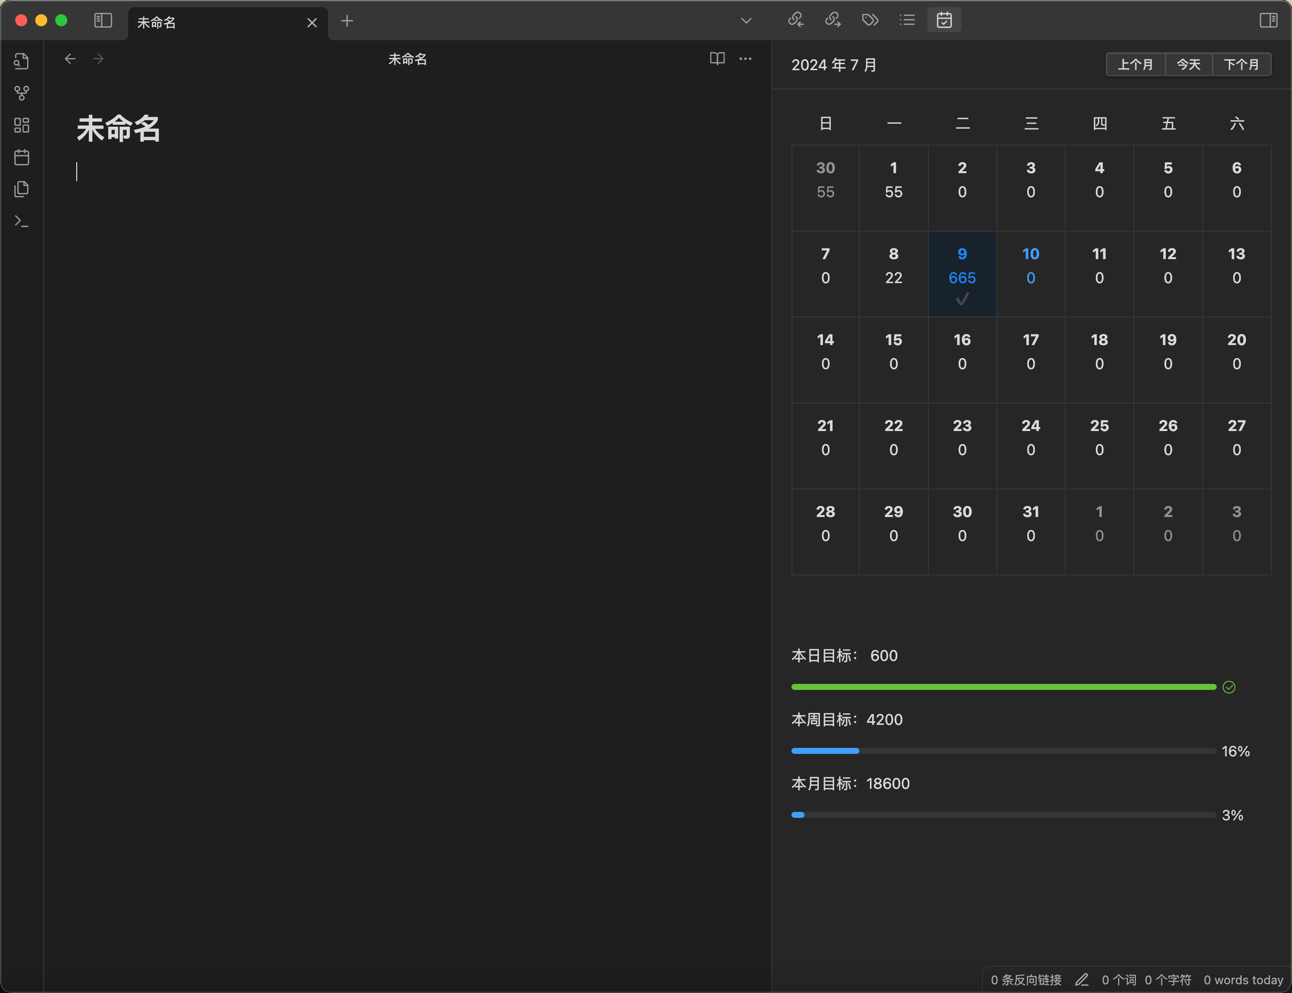
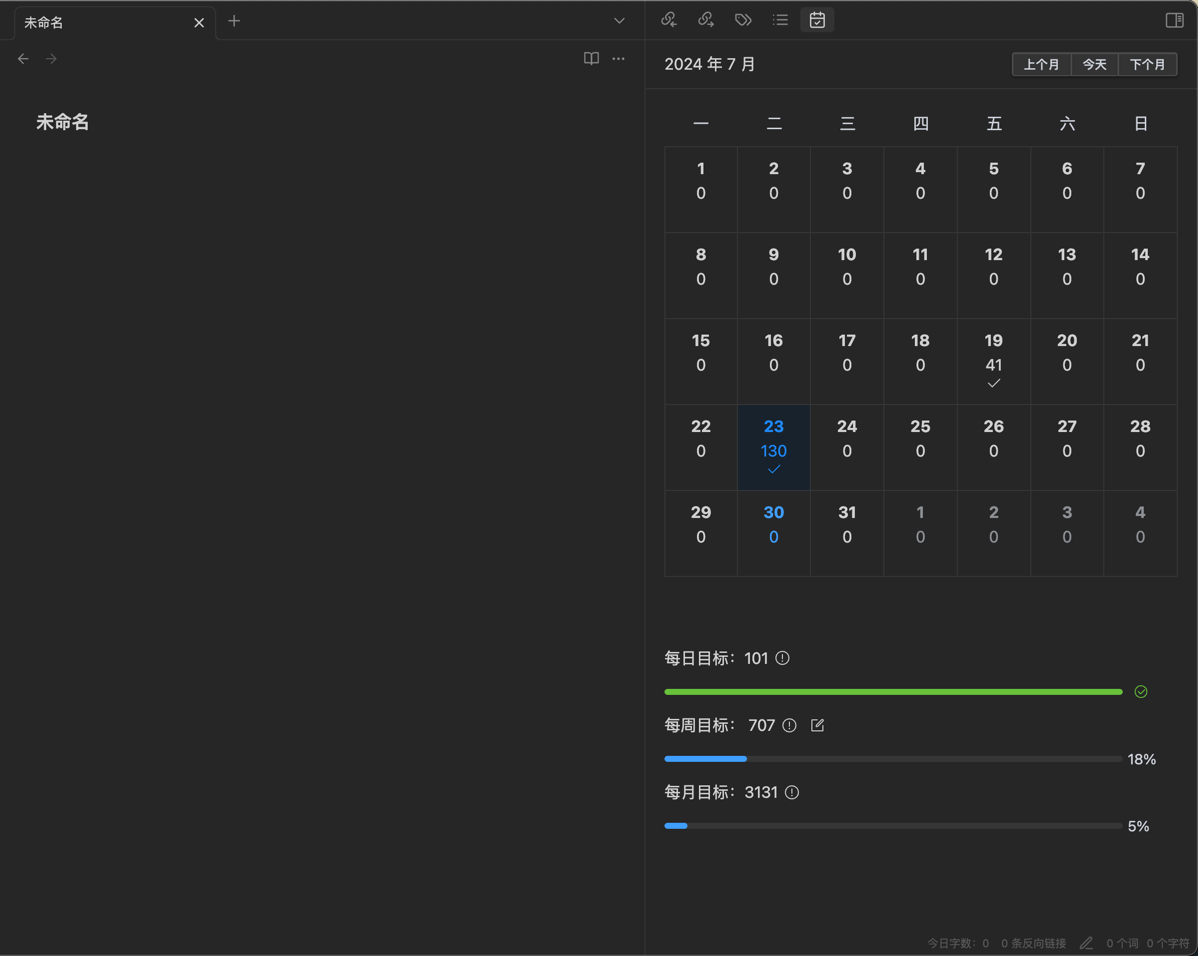
【优化】文档优化

diff --git a/README.md b/README.md
@@ -11,8 +11,9 @@
 ## 功能
 - [x] 统计每日字数
 - [x] 指定需要统计的文件夹
-- [x] 设置每日目标
-- [x] 多语言配置
+- [x] 设置每周目标
+- [x] 多语言配置：中文、英文
+- [x] 不同的语言环境下，每周的开始时间不同
 
 
 ## 其他
